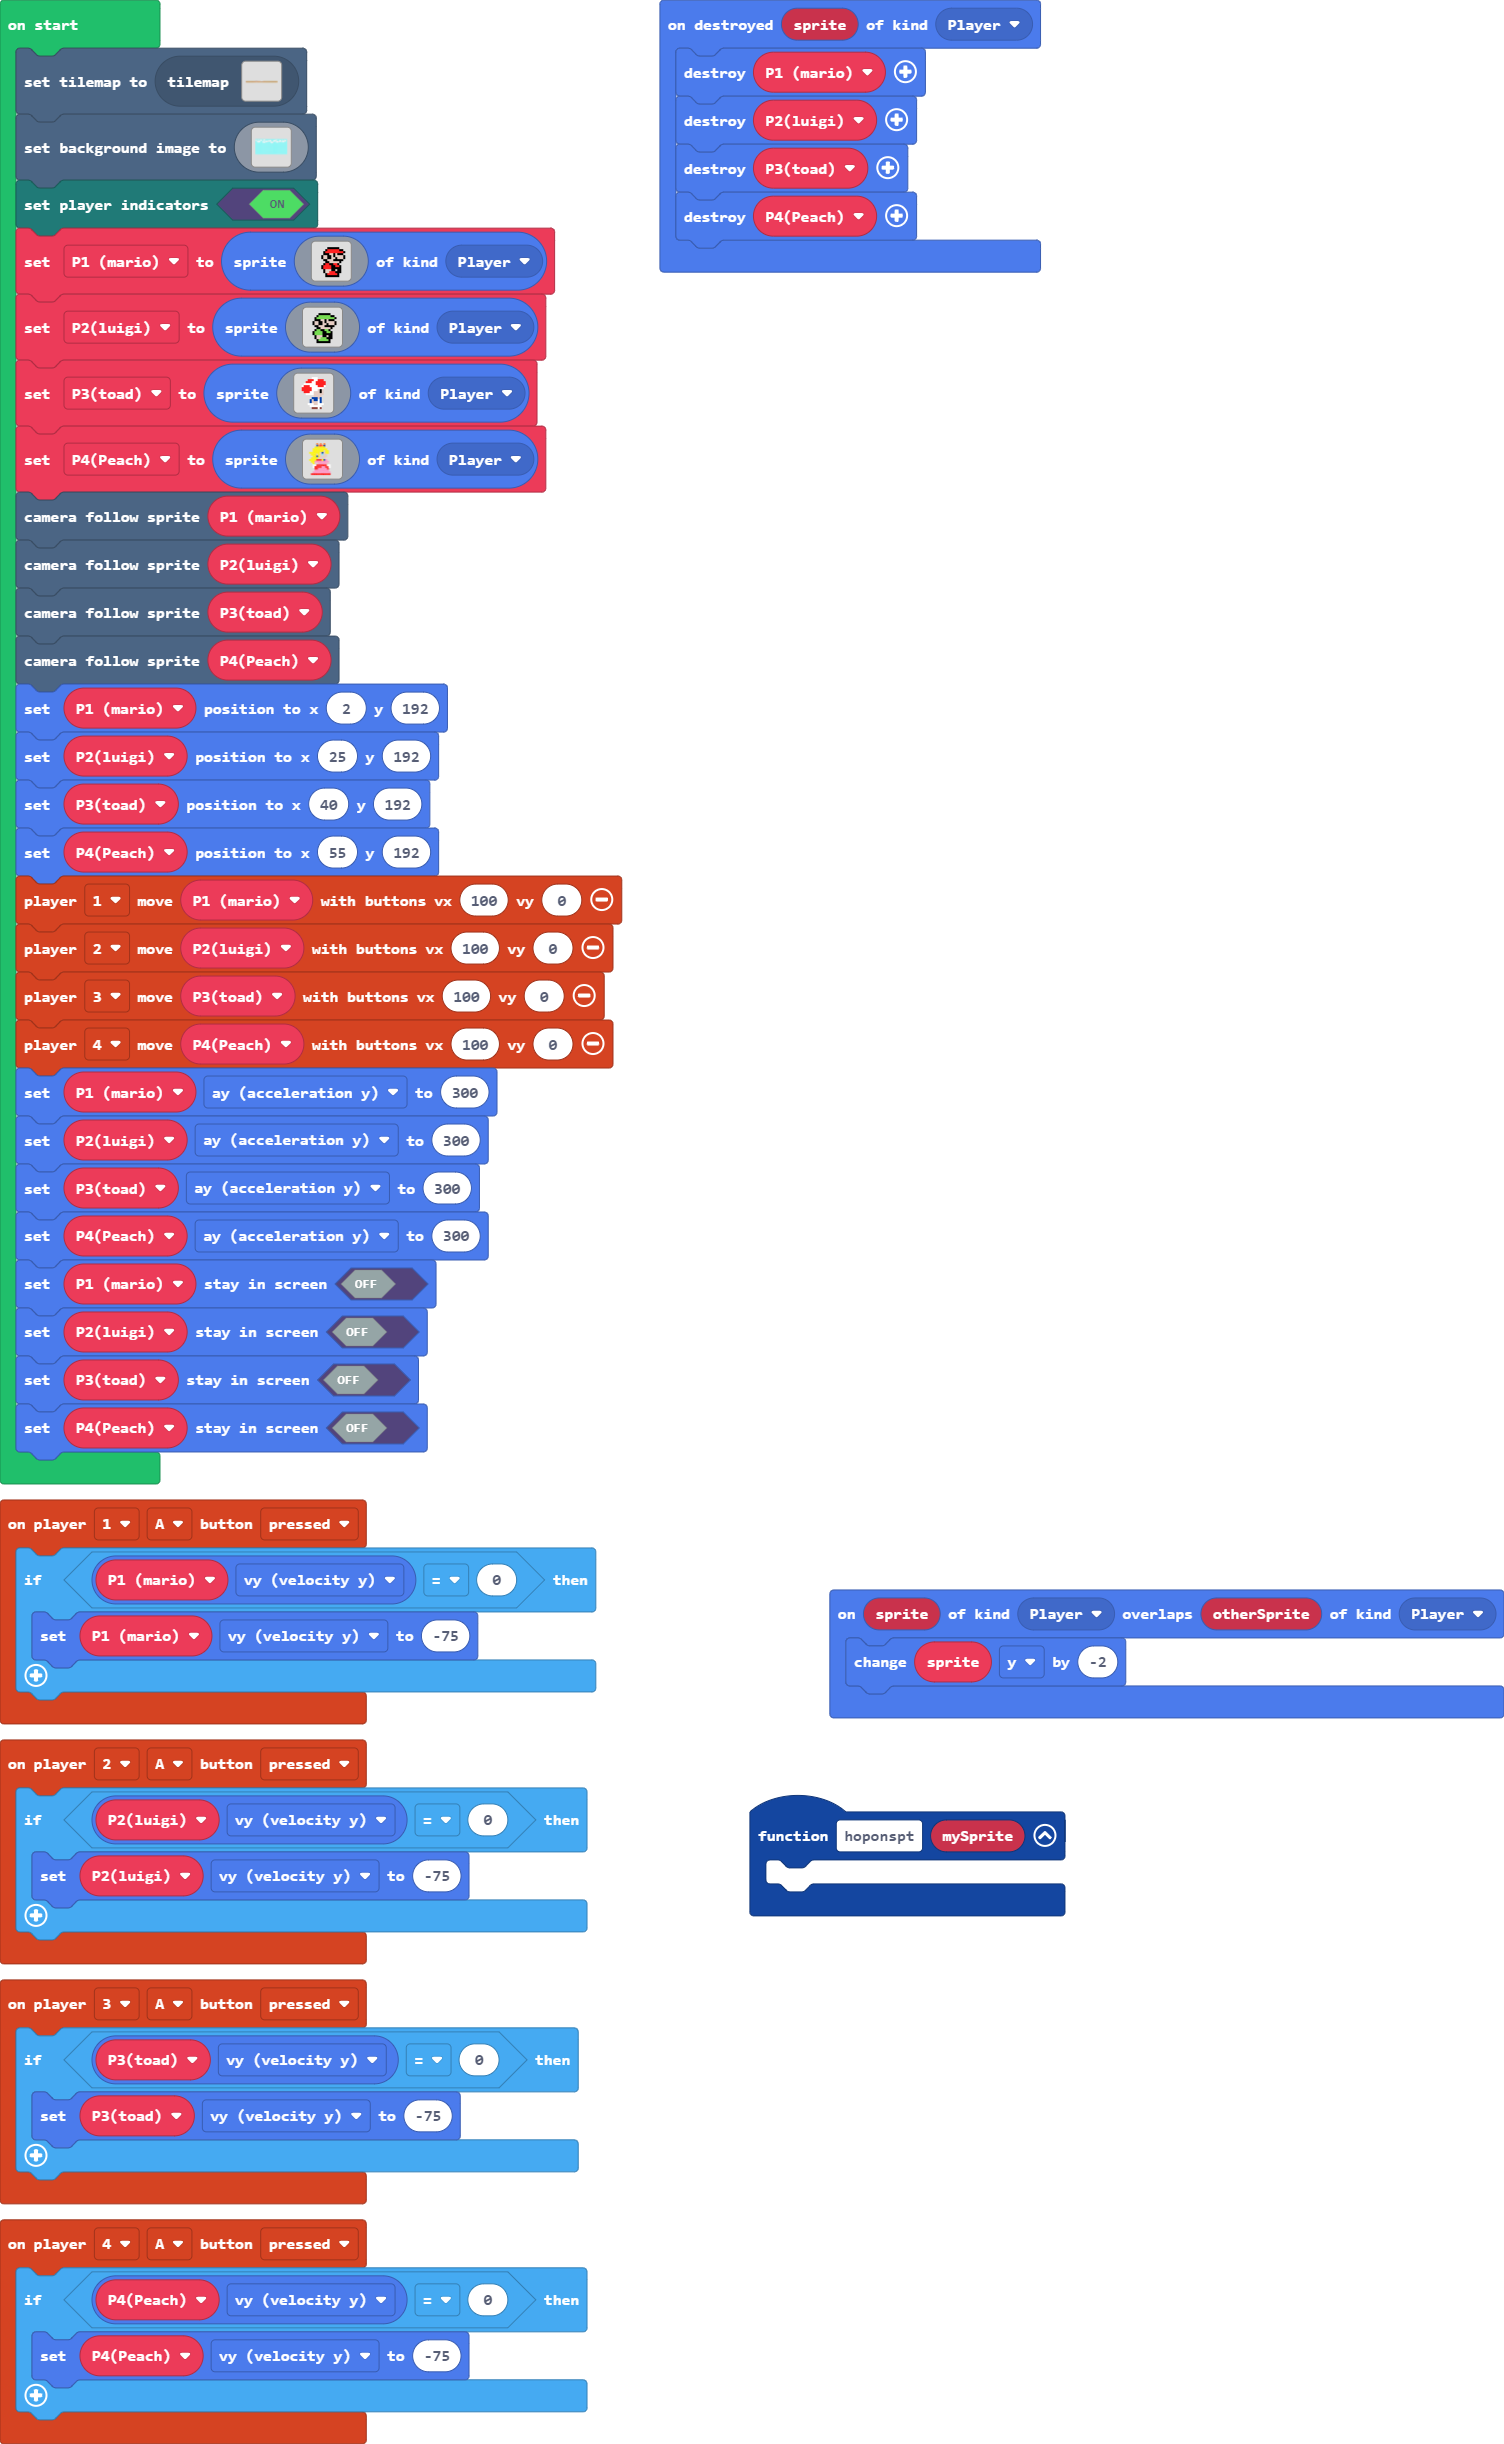
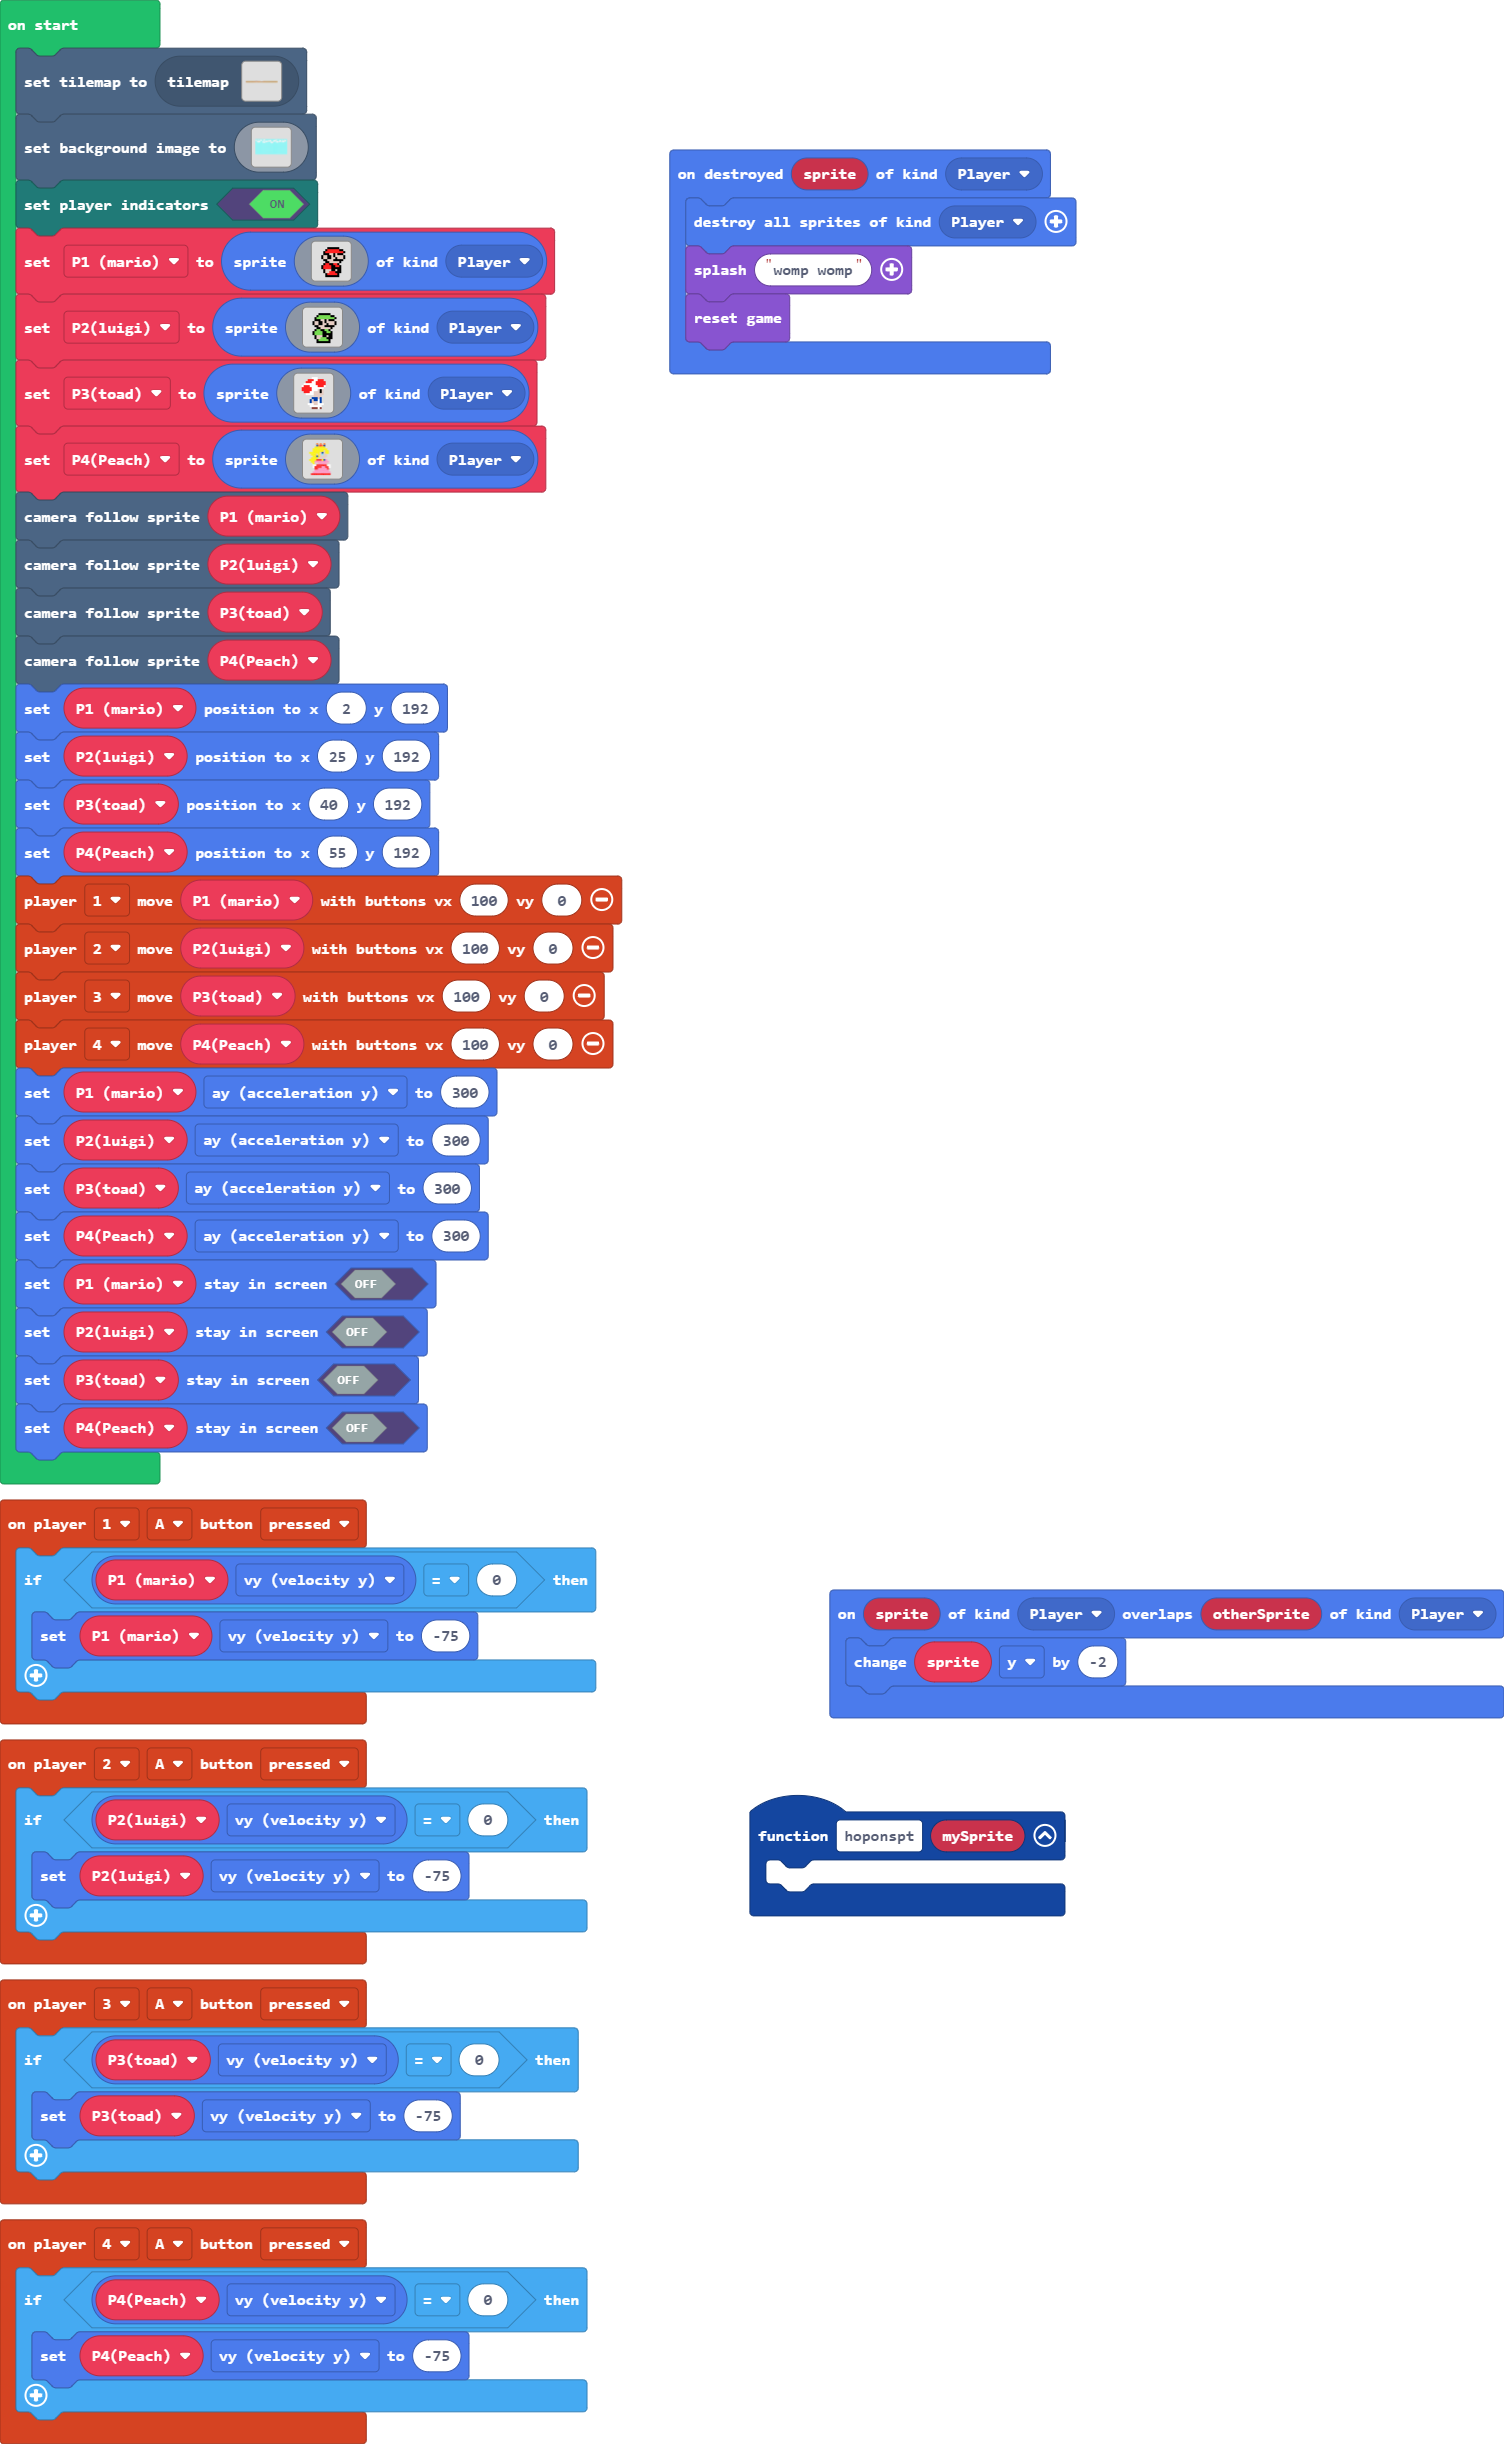
Update main.blocks, main.ts

Changed region(s): [[0.4375, 0.0, 0.7188, 0.1555]]

diff --git a/main.ts b/main.ts
@@ -25,10 +25,9 @@ controller.player3.onButtonEvent(ControllerButton.A, ControllerButtonEvent.Press
     }
 })
 sprites.onDestroyed(SpriteKind.Player, function (sprite) {
-    sprites.destroy(P1_mario)
-    sprites.destroy(P2luigi)
-    sprites.destroy(P3toad)
-    sprites.destroy(P4Peach)
+    sprites.destroyAllSpritesOfKind(SpriteKind.Player)
+    game.splash("womp womp")
+    game.reset()
 })
 let P4Peach: Sprite = null
 let P3toad: Sprite = null
